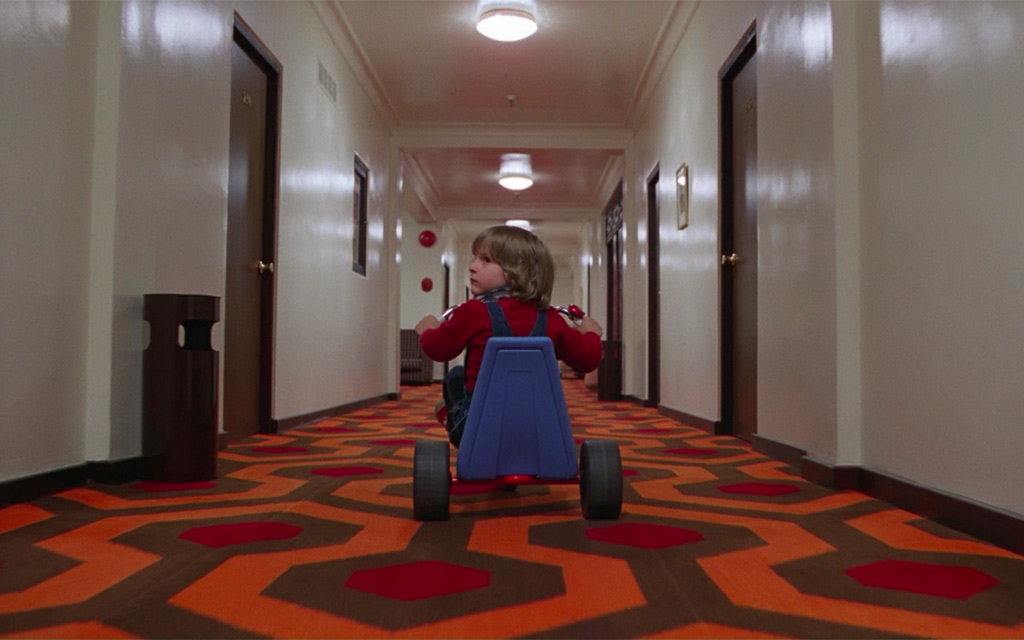
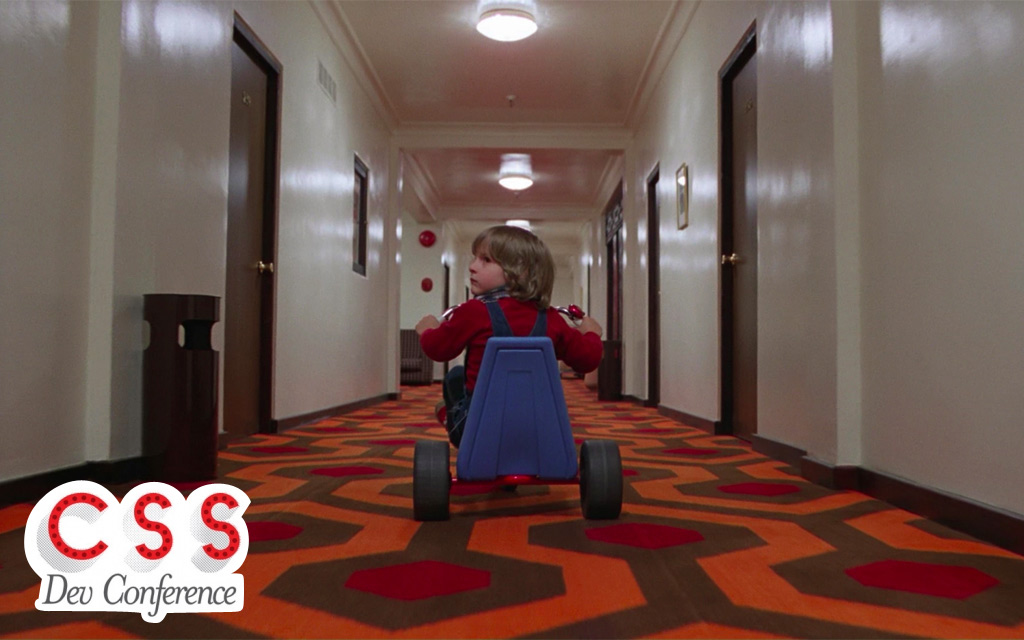
update for Stanley Hotel venue

Changed region(s): [[0.0, 0.75, 0.25, 0.9688]]

diff --git a/html5-mobile-approach/rwd.html b/html5-mobile-approach/rwd.html
@@ -47,7 +47,7 @@
 	
 	
 	<section class="slide cover dark"><div>
-		<h2 style="color:#fff;font-size:42px; margin-top:460px">CSS Dev Conference @ The Stanley Hotel</h2>
+		<h2 style="color:#fff;font-size:42px; margin:480px 0 0 180px">@ The Stanley Hotel</h2>
 		<img src="images/stanley-hotel.jpg" style="width:1024px;height:640px;" alt="rwd">
 		<p class="credit"></p>
 	</div></section>
@@ -308,7 +308,7 @@
 	
 	
 	<section class="slide"><div>
-		<h2>Grid Layout with MQ</h2>
+		<h2>Responsive Grid</h2>
 		<figure style="display:inline-block; margin-right: 1em">
 		<img src="images/grid-portrait.png"><figcaption>An arrangement suitable for ‘<span class="pink">portrait</span>’ orientation.</figcaption>
 		</figure>
@@ -473,7 +473,7 @@
 	
 	<section class="slide"><div>
 		<h3>The High DPI: small screens</h3>
-		<div style="text-align:center;"><img src="images/retinafy-01.png" style="width:800px"></div>
+		<div style="text-align:center;"><img src="images/retinafy-01.png" style="width:800px; height:500px"></div>
 		
 	</div></section>
 		
@@ -1224,6 +1224,10 @@ CH: dpr=2.0
 	</div></section>
 	
 	
+	<section class="slide cover dark"><div>
+		<img src="images/cat-the-shining.jpg" width="1024">
+		<p class="credit">http://motleynews.net/2012/07/12/the-parting-shot-for-july-12-2012/</p>
+	</div></section>
 
 	<p class="badge"><a href="https://github.com/girliemac/presentation-slides/">Fork me on Github</a></p>
 	
